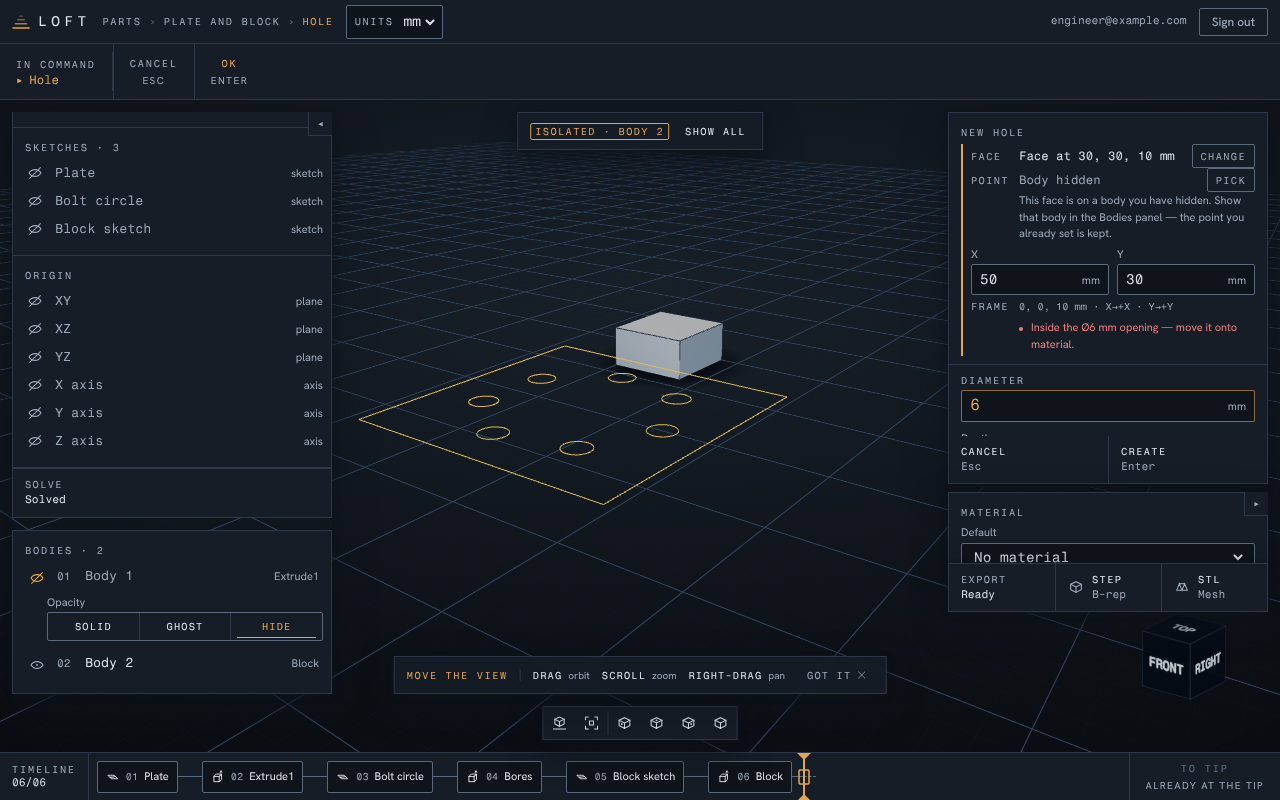
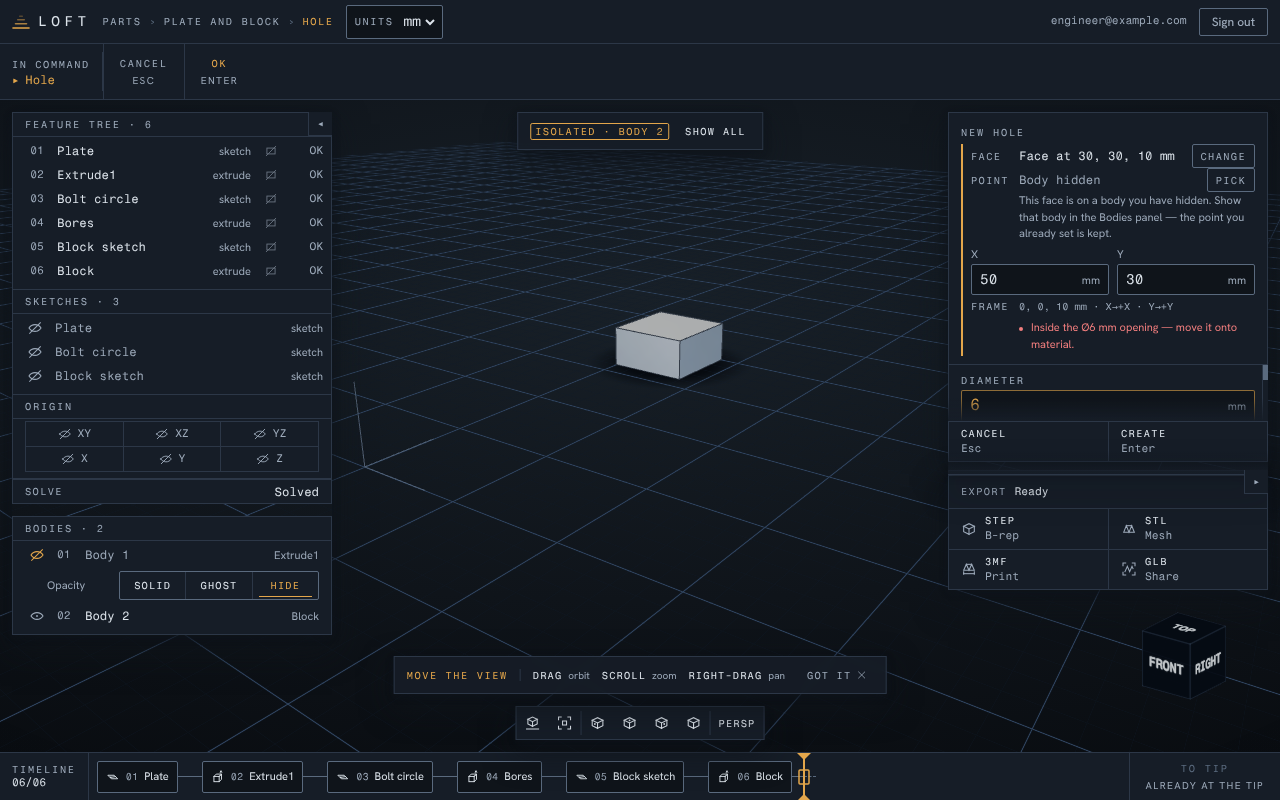
fix(viewport): a hidden body no longer keeps its feature outline
SEL-7 has been e2e-red at the branch tip since 57d3bf8: hiding the body
that carries the selected feature withheld its snap nodes, its crosshair
and its brass face TINT — and kept its brass OUTLINE. Measured 617 px of
face-boundary ink hanging in the void where the plate used to be, with
every DOM assertion in the spec still passing, because a DOM assertion
cannot see GL ink.

MECHANISM. `ModelMesh` had two places answering one question. The
face→material assignment walked the body-view precedence (hidden >
ghosted > feature-selected > hovered) ordinal by ordinal; `featureEdges`
handed the raw feature face set to `faceBoundaryEdges` and never asked.
The rule was understood and written down — the `edges` memo carries a
comment saying a wireframe silhouette of a body you switched off is the
"hidden means nothing drawn" rule being broken — and applied to one of
the two call sites. 57d3bf8 (CRAFT-1) then swapped this path from
`subsetEdges`, a 25-degree crease detector that finds almost nothing on
a flat face (31 px), to the real face partition (694 px), which gave a
latent hole enough ink to see.

The fix is the derivation, not the instance: `litFeatureFaces` in
`partView.ts` applies the precedence once and both call sites read it.
Ghosted faces are excluded for the same reason as hidden ones — a brass
outline over a ghost surface would say "committed" while the surface
says "receded" — and nothing is left un-outlined by that, because
[…]

diff --git a/apps/web/e2e/hole-hidden-body.spec.ts b/apps/web/e2e/hole-hidden-body.spec.ts
@@ -142,8 +142,16 @@ async function offeredFaces(page: Page): Promise<OfferedFace[]> {
  * A silhouette count — the trick `occludedPlate.ts` uses — cannot answer it
  * here: hiding a body re-runs the fit, and this fixture's two bodies are both
  * squarish, so each fills the reframed viewport to about the same area.
+ *
+ * It also brings back the INK FLOOR FOR THE HIDDEN STATE, measured on the pass
+ * that hides the plate — because this loop already puts the scene in exactly
+ * the state the claim is about (plate hidden, no placement face picked, so the
+ * overlay has nothing to draw by construction) and a second hide/show cycle
+ * would not be free: HIDING re-fits the camera and SHOWING does not, so an
+ * extra cycle ends with the frame around the block and the plate off-screen —
+ * measured, and it made the placement face unclickable for 300 s.
  */
-async function discoverPlateRow(page: Page): Promise<number> {
+async function discoverPlateRow(page: Page): Promise<PlateProbe> {
   const drawn = await offeredFaces(page);
   const plateFaces = drawn.filter((f) => f.plate).length;
   const blockFaces = drawn.length - plateFaces;
@@ -157,6 +165,7 @@ async function discoverPlateRow(page: Page): Promise<number> {
   ).toBeGreaterThan(0);
 
   let plateRow: number | null = null;
+  let hiddenFloor: Ink | null = null;
   const seen: string[] = [];
   for (const row of [0, 1]) {
     await setBodyMode(page, row, "hidden");
@@ -165,7 +174,10 @@ async function discoverPlateRow(page: Page): Promise<number> {
     const plateLeft = left.filter((f) => f.plate).length;
     const blockLeft = left.length - plateLeft;
     seen.push(`row ${row} hidden → ${plateLeft} plate + ${blockLeft} block`);
-    if (plateLeft === 0 && blockLeft > 0) plateRow = row;
+    if (plateLeft === 0 && blockLeft > 0) {
+      plateRow = row;
+      hiddenFloor = await crosshairInk(page);
+    }
     await setBodyMode(page, row, "solid");
     await waitForFrames(page, 6);
   }
@@ -177,7 +189,10 @@ async function discoverPlateRow(page: Page): Promise<number> {
     plateRow,
     `exactly one row must take the plate's faces out of the offer: ${seen.join("; ")}`,
   ).not.toBeNull();
-  return plateRow as number;
+  if (plateRow === null || hiddenFloor === null) {
+    throw new Error("the plate's row was never identified");
+  }
+  return { row: plateRow, hiddenFloor };
 }
 
 /** The plate's TOP face — the one carrying the bolt circle (largest z). */
@@ -217,11 +232,31 @@ async function snapIds(page: Page): Promise<string[]> {
  * a hundred pixels of line, and the count then moved with the camera framing
  * rather than with the overlay. Line materials render un-tonemapped, so the
  * crosshair lands on the canvas at its literal hex and an exact match keeps
- * only the thing being measured (measured: floor 0, drawn 89 + 35, hidden 0).
+ * only the thing being measured.
+ *
+ * `datum` is no longer a pure crosshair count: CRAFT-3's resting origin marks
+ * are drawn in the same token, so the scene carries a baseline of it that moves
+ * with the FRAMING. That is why every assertion below compares against a floor
+ * measured in the same body-visibility state, never against a literal zero
+ * (measured on this fixture: 74 px both bodies framed, 33 px plate hidden,
+ * 168 + 708 px with the crosshair up).
  */
-async function crosshairInk(
-  page: Page,
-): Promise<{ datum: number; point: number; total: number }> {
+interface Ink {
+  /** `sketch.planeEdge` — the datum frame, and CRAFT-3's resting origin marks. */
+  datum: number;
+  /** `viewport.selection` — the live drill point. */
+  point: number;
+  /** datum + point, so one number carries the whole census. */
+  total: number;
+}
+
+/** The plate's row in the Bodies panel, plus the ink floor of its hidden state. */
+interface PlateProbe {
+  row: number;
+  hiddenFloor: Ink;
+}
+
+async function crosshairInk(page: Page): Promise<Ink> {
   const datum = await countTokenPixels(page, sketch.planeEdge, 0);
   const point = await countTokenPixels(page, viewportTokens.selection, 0);
   return { datum, point, total: datum + point };
@@ -298,8 +333,31 @@ test.describe("SEL-7 — a hidden body withholds the hole placement overlay", ()
     await page.getByTestId("new-hole").click();
     await expect(page.getByTestId("hole-editor")).toBeVisible();
 
-    const plateRow = await discoverPlateRow(page);
+    /*
+      THE ROW, AND THE INK FLOOR FOR THE STATE THE CLAIM IS ACTUALLY ABOUT —
+      the plate HIDDEN with no placement face picked, so the overlay has
+      nothing to draw by construction and everything counted is scene ink.
+
+      The floor above cannot serve, and the reason arrived with CRAFT-3: hiding
+      a body RE-FITS the camera, and the resting origin marks are drawn in
+      `sketch.planeEdge` — the datum ink this census counts — so the two
+      framings legitimately disagree about how much of that ink is on the
+      canvas. Measured on this fixture: 74 px with both bodies framed, 33 px
+      with the plate hidden. That was harmless while the marks did not exist
+      (both numbers were 0, and the comparison was accidentally sound); the day
+      they did, it made the assertion below unsatisfiable for a reason that has
+      nothing to do with the overlay.
+
+      Comparing like with like is STRICTLY STRONGER, not a loosening: `=== 74`
+      would have admitted 41 px of spurious crosshair, `=== 33` admits none.
+    */
+    const { row: plateRow, hiddenFloor } = await discoverPlateRow(page);
     const blockRow = 1 - plateRow;
+    report(
+      "crosshair ink, plate hidden, no placement face picked (the hidden floor)",
+      `datum ${hiddenFloor.datum} px + live point ${hiddenFloor.point} px`,
+    );
+
     const top = plateTopFace(await offeredFaces(page));
     report("placement face", `${top.testId} — ${top.label}`);
     await page.getByTestId(top.testId).click();
@@ -400,8 +458,9 @@ test.describe("SEL-7 — a hidden body withholds the hole placement overlay", ()
     expect(
       inkHidden.total,
       `no crosshair may be drawn over the void ` +
-        `(hidden: datum ${inkHidden.datum} px, point ${inkHidden.point} px; floor ${inkFloor.total} px; drawn ${inkDrawn.total} px)`,
-    ).toBe(inkFloor.total);
+        `(hidden: datum ${inkHidden.datum} px, point ${inkHidden.point} px; ` +
+        `hidden floor ${hiddenFloor.total} px; drawn ${inkDrawn.total} px)`,
+    ).toBe(hiddenFloor.total);
 
     // (e) …and a click where a bore-centre diamond floated drills nothing.
     //     This is the reported defect in one action: under the old overlay the

diff --git a/apps/web/src/viewport/ModelMesh.tsx b/apps/web/src/viewport/ModelMesh.tsx
@@ -25,7 +25,7 @@ import {
   setFaceMaterials,
 } from "./glbGeometry";
 import { FaceTrace } from "./faceTrace";
-import { bodyView, usePartViewStore } from "./partView";
+import { bodyView, litFeatureFaces, usePartViewStore } from "./partView";
 import { drawnSurfaceRaycast, hiddenTriangleTest } from "./pickRaycast";
 import { studioMatcap } from "./studioMatcap";
 
@@ -210,6 +210,30 @@ export function ModelMesh({
     }
     return drawn;
   }, [totalFaces, bodyFaceState]);
+
+  /**
+   * WHERE THE FEATURE EMPHASIS ACTUALLY LANDS — the selected feature's faces
+   * minus every face a stronger body-view stop has already claimed.
+   *
+   * Derived ONCE, in `partView.ts`, because two call sites here have to agree
+   * about it and did not: the material assignment below walked the precedence
+   * face by face, while `featureEdges` handed `faceSet` straight to
+   * `faceBoundaryEdges`. So hiding the body that carries a selected feature
+   * withheld its brass TINT and kept its brass OUTLINE — measured 617 px of
+   * face-boundary ink hanging in the void where the body used to be (QA,
+   * 2026-09-13, P1). It was latent until CRAFT-1 swapped this path from
+   * `subsetEdges` (a 25° crease detector, which finds almost nothing on a flat
+   * face: 31 px) to the real face partition, which gave the hole ink to show.
+   *
+   * That is the same rule the `edges` memo below carries a comment about — "a
+   * wireframe silhouette of a body you switched off is exactly the 'hidden
+   * means nothing drawn' rule being broken" — written down once and applied to
+   * one of the two places that needed it.
+   */
+  const featureLitFaces = useMemo<ReadonlySet<number> | null>(
+    () => (localized ? litFeatureFaces(faceSet, bodyFaceState) : null),
+    [localized, faceSet, bodyFaceState],
+  );
 
   // Selection wins over hover; hover only reads while the body is interactive.
   const highlight: BodyHighlight = localized
@@ -416,14 +440,14 @@ export function ModelMesh({
         ? 3
         : bodyFaceState.ghosted.has(ordinal)
           ? 2
-          : localized && faceSet !== null && faceSet.has(ordinal)
+          : featureLitFaces !== null && featureLitFaces.has(ordinal)
             ? 1
             : faceHover === ordinal
               ? 4
               : 0,
     );
     invalidate();
-  }, [geometry, localized, faceSet, bodyFaceState, faceHover, invalidate]);
+  }, [geometry, featureLitFaces, bodyFaceState, faceHover, invalidate]);
 
   // Report the highlight + face selection up so the viewport can stamp QA hooks.
   useEffect(() => {
@@ -715,12 +739,14 @@ export function ModelMesh({
 
   // Brass boundary edges of ONLY the selected feature's faces (FINDINGS #9) —
   // the localized emphasis that traces the feature over the preserved matcap.
+  // Over `featureLitFaces`, not over `faceSet`: the outline follows the tint,
+  // so a hidden or ghosted body takes its feature trace with it.
   const featureEdges = useMemo<BufferGeometry | null>(
     () =>
-      geometry !== null && localized && faceSet !== null
-        ? faceBoundaryEdges(geometry, faceSet)
+      geometry !== null && featureLitFaces !== null
+        ? faceBoundaryEdges(geometry, featureLitFaces)
         : null,
-    [geometry, localized, faceSet],
+    [geometry, featureLitFaces],
   );
   useEffect(() => () => featureEdges?.dispose(), [featureEdges]);
 

diff --git a/apps/web/src/viewport/partView.test.ts b/apps/web/src/viewport/partView.test.ts
@@ -7,6 +7,7 @@ import {
   entityIsDrawn,
   hiddenBodyCount,
   isolatedBodyLabel,
+  litFeatureFaces,
   ORIGIN_AXES,
   ORIGIN_PLANES,
   originAxisKey,
@@ -299,5 +300,72 @@ describe("bodies auto-ghost while a sketch is open", () => {
     usePartViewStore.getState().setSketchOpen(true);
     usePartViewStore.getState().setSubject("part-b");
     expect(usePartViewStore.getState().sketchOpen).toBe(false);
+  });
+});
+
+/**
+ * THE PRECEDENCE, AS A FUNCTION (QA 2026-09-13, P1).
+ *
+ * The defect these cover is not "a wrong set" — it is TWO call sites answering
+ * the same question differently, one of them by never asking. So the cases
+ * below are written as the mesh's two consumers would read them: what the tint
+ * lands on, and what the outline traces, are the same answer.
+ */
+describe("litFeatureFaces", () => {
+  const none = { hidden: new Set<number>(), ghosted: new Set<number>() };
+
+  it("passes the feature's own faces through when nothing is stopped", () => {
+    const faces = new Set([1, 2, 3]);
+    // Identity, not a copy: the resting case must cost no allocation, because
+    // it runs on every hover frame of every selected feature.
+    expect(litFeatureFaces(faces, none)).toBe(faces);
+  });
+
+  it("has nothing to light without a selection", () => {
+    expect(litFeatureFaces(null, none)).toBeNull();
+    expect(litFeatureFaces(new Set(), none)).toBeNull();
+  });
+
+  it("drops a HIDDEN body's faces — the emphasis cannot outlive the body", () => {
+    const lit = litFeatureFaces(new Set([1, 2, 3]), {
+      hidden: new Set([2, 3]),
+      ghosted: new Set<number>(),
+    });
+    expect([...(lit ?? [])]).toEqual([1]);
+  });
+
+  it("returns null when the whole feature is hidden, not an empty set", () => {
+    // Null is what both call sites branch on: the material assignment falls
+    // through to the base slot and `featureEdges` builds no geometry at all.
+    // An empty set would make `faceBoundaryEdges` the one deciding, which is
+    // exactly the split responsibility that produced the defect.
+    expect(
+      litFeatureFaces(new Set([1, 2]), {
+        hidden: new Set([1, 2]),
+        ghosted: new Set<number>(),
+      }),
+    ).toBeNull();
+  });
+
+  it("drops a GHOSTED body's faces, so the outline agrees with the tint", () => {
+    // A ghosted face takes the ghost material; a brass outline on it would say
+    // "committed" over a surface saying "receded". Its boundary is still drawn
+    // — by `ghostEdges`, in the ghost ink.
+    const lit = litFeatureFaces(new Set([4, 5]), {
+      hidden: new Set<number>(),
+      ghosted: new Set([5]),
+    });
+    expect([...(lit ?? [])]).toEqual([4]);
+  });
+
+  it("keeps a face no stop claims, on a part where other bodies are off", () => {
+    // The CONTROL: a stop on a body that does not own these faces must not
+    // dim a feature the modeller can see perfectly well.
+    const faces = new Set([7, 8]);
+    const lit = litFeatureFaces(faces, {
+      hidden: new Set([90, 91]),
+      ghosted: new Set([92]),
+    });
+    expect([...(lit ?? [])]).toEqual([7, 8]);
   });
 });

diff --git a/apps/web/src/viewport/partView.ts b/apps/web/src/viewport/partView.ts
@@ -519,3 +519,48 @@ export function isolatedBodyLabel(
   const shown = bodies.filter((body) => !instanceView(view, body.key).hidden);
   return shown.length === 1 ? (shown[0]?.label ?? null) : null;
 }
+
+/** A body-view state expressed over FACE ordinals — the mesh's own currency. */
+export interface FaceStopSets {
+  /** Faces of bodies switched off entirely: nothing about them is drawn. */
+  readonly hidden: ReadonlySet<number>;
+  /** Faces of bodies at the ghost stop: drawn, but translucent and unlit. */
+  readonly ghosted: ReadonlySet<number>;
+}
+
+/**
+ * WHICH OF A SELECTED FEATURE'S FACES THE EMPHASIS MAY ACTUALLY LAND ON.
+ *
+ * The body-view precedence the mesh draws by is `hidden > ghosted >
+ * feature-selected > hovered`, and it is not a per-call-site convention: it is
+ * the reason the eye and the pixels cannot disagree. This is that precedence as
+ * ONE derivation, because the mesh has two places that must answer the same
+ * question — the face→material assignment and the brass boundary trace — and
+ * they answered it differently. The trace handed the raw feature face set to
+ * `faceBoundaryEdges`, so hiding the body that carried a selected feature
+ * withheld its TINT and kept its OUTLINE: 617 px of face-boundary ink floating
+ * where the body used to be (QA, 2026-09-13, P1).
+ *
+ * Ghosted faces are excluded for the same reason and not merely by symmetry: a
+ * ghosted face takes the ghost material, so a brass outline on it would say
+ * "this feature, committed" while the surface underneath says "receded". The
+ * face is not left un-outlined by this — `ghostEdges` draws its boundary in the
+ * ghost ink, which is the ink that matches what the surface is saying.
+ *
+ * Null means there is nothing to emphasise (no selection, or every one of its
+ * faces claimed by a stronger stop), which is what both call sites want to be
+ * told rather than an empty set they each have to interpret.
+ */
+export function litFeatureFaces(
+  faceSet: ReadonlySet<number> | null,
+  stops: FaceStopSets,
+): ReadonlySet<number> | null {
+  if (faceSet === null || faceSet.size === 0) return null;
+  if (stops.hidden.size === 0 && stops.ghosted.size === 0) return faceSet;
+  const lit = new Set<number>();
+  for (const ordinal of faceSet) {
+    if (stops.hidden.has(ordinal) || stops.ghosted.has(ordinal)) continue;
+    lit.add(ordinal);
+  }
+  return lit.size === 0 ? null : lit;
+}
